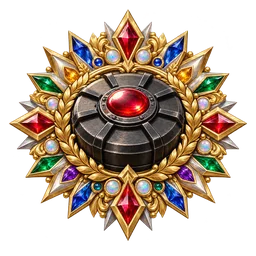
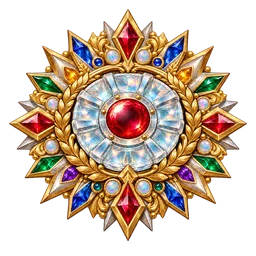
Face mythic bomb forward and replace steel with translucent crystal

diff --git a/index.html b/index.html
@@ -5,7 +5,7 @@
 <meta name="viewport" content="width=device-width, initial-scale=1, maximum-scale=1, user-scalable=no, viewport-fit=cover">
 <meta name="apple-mobile-web-app-capable" content="yes">
 <meta name="mobile-web-app-capable" content="yes">
-<title>こっそり戦車大作戦 2026.10.23.2355</title>
+<title>こっそり戦車大作戦 2026.10.24.0003</title>
 
 <style>
 :root{box-sizing:border-box;padding-top:env(safe-area-inset-top,0px);padding-bottom:env(safe-area-inset-bottom,0px);--bg:#12140f;--fg:#e6e9d8}
@@ -898,7 +898,7 @@ const cv=document.getElementById('c'),gm=gameCanvasContext(cv,{alpha:false}),oc=
 const canvasCreationDiagnostics={requested:MOBILE_READBACK_CANVAS,accepted:null};
 try{const attributes=gm.getContextAttributes?.();if(attributes&&typeof attributes.willReadFrequently==='boolean')canvasCreationDiagnostics.accepted=attributes.willReadFrequently;}catch(_){}
 window.tankCanvasDiagnostics=canvasCreationDiagnostics;
-const GAME_VERSION='2026.10.23.2355',FILE_CREATED_AT='2026/10/23 23:55',DRILL_ACTIVE=5,DRILL_RECHARGE=6,DIG_PREP_DURATION=.5;
+const GAME_VERSION='2026.10.24.0003',FILE_CREATED_AT='2026/10/24 00:03',DRILL_ACTIVE=5,DRILL_RECHARGE=6,DIG_PREP_DURATION=.5;
 // 表示・保存用のm換算。移動・評価は内部座標のまま扱う。
 const distanceMeters=distance=>Math.round(Math.max(0,distance)/10);
 let audioCtx=null;
@@ -8143,7 +8143,7 @@ function reportGameError(error){
 </script>
 <script src="js/stage-progress.js?v=2026.10.23.1833"></script>
 <script src="js/frontline.js?v=2026.10.23.0853"></script>
-<script src="js/award-icons.js?v=2026.10.23.2355"></script>
+<script src="js/award-icons.js?v=2026.10.24.0003"></script>
 <script src="js/enemy-bomber.js?v=2026.10.23.1833"></script>
 <script src="js/characters.js?v=2026.10.19.1032"></script>
 <script src="js/enemy-dogs.js?v=2026.10.22.0945"></script>

diff --git a/js/award-icons.js b/js/award-icons.js
@@ -1,6 +1,6 @@
 // WebP title medals are fetched only when results or the collection render.
 const TITLE_WEBP_IDS=new Set(["v3_single_0_normal", "v3_single_0_elite", "v3_single_1_normal", "v3_single_1_elite", "v3_single_2_normal", "v3_single_2_elite", "v3_single_3_normal", "v3_single_3_elite", "v3_single_4_normal", "v3_single_4_elite", "v3_single_5_normal", "v3_single_5_elite", "v3_single_6_normal", "v3_single_6_elite", "v3_single_7_normal", "v3_single_7_elite", "v3_ghost_sniper", "v3_armored_assault", "v3_front_commander", "v3_shadow_pair", "v3_versatile", "v3_infantry", "v3_chain", "v3_one_shot", "v3_legend_0", "v3_legend_1", "v3_legend_2", "v3_legend_3", "v3_legend_4", "v3_legend_5", "v3_legend_6", "v3_legend_7", "v3_mythic_complete"]);
-const TITLE_WEBP_VERSION="2026.10.23.medals1";
+const TITLE_WEBP_VERSION="2026.10.24.0003";
 // Static SVG award emblems. Used only while rendering results / the collection.
 // No bitmaps, filters, animation loops or gameplay-time entity searches.
 const AWARD_AXIS_SYMBOLS=['flag','stealth','assault','blast','footsteps','tactics','teamwork','survival'];
